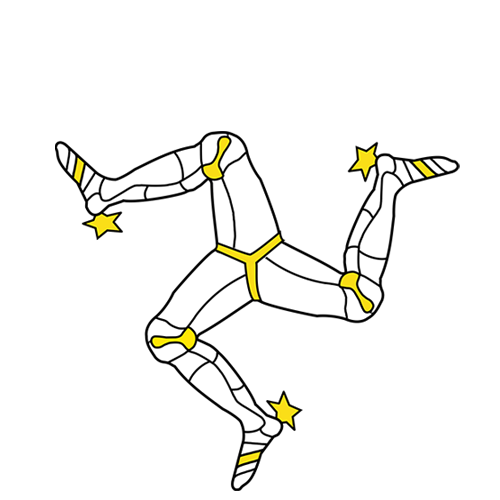
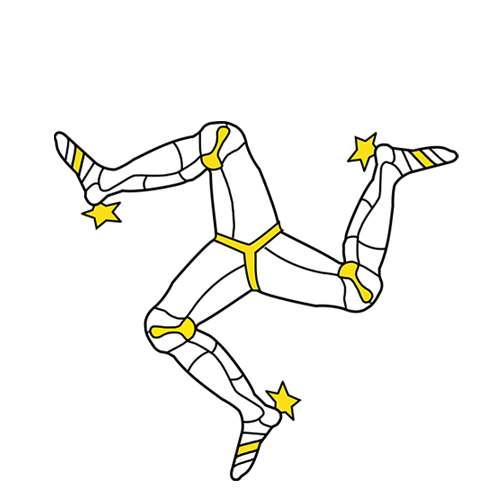
스크롤 애니메이션 수정 및 이미지 추가

Changed region(s): [[0.09, 0.24, 0.93, 0.99]]

diff --git a/230512_scrollani/index.html b/230512_scrollani/index.html
@@ -11,15 +11,27 @@
 <body>
 <div class="wrap">
     <h1 class="main_tit">스크롤 애니메이션 테스트</h1>
-    <div class="img_spin">
-        <img src="./img/manisle.png" alt="">
+    <div class="img">
+        <div class="img_spin on">
+            <img src="./img/manisle.png" alt="">
+        </div>
+        <div class="img_spin2">
+            <img src="./img/sigongjoa.webp" alt="">
+        </div>
     </div>
+    <button class="change">이미지 바꾸기</button>
 </div>
 <script>
     document.addEventListener('scroll', () => {
         document.body.style.setProperty('--scroll', window.pageYOffset / (document.body.offsetHeight - window.innerHeight));
-        console.log(document.body.offsetHeight - window.innerHeight);
     }, false);
+
+    const $change = document.querySelector('button.change');
+    const $img = document.querySelector('.img');
+
+    $change.addEventListener('click', () => {
+        $img.
+    });
 </script>
 </body>
 </html>

diff --git a/230512_scrollani/css/style.css b/230512_scrollani/css/style.css
@@ -2,10 +2,13 @@
 body{height:10000px}
 .wrap{overflow:hidden;max-width:1024px;margin:0 auto}
 .main_tit{margin-top:100px;text-align:center}
-.img_spin{position:fixed;top:calc(50% - 150px);left:calc(50% - 150px);width:300px;height:300px;animation:rotate 3s linear infinite}
+.img_spin{position:fixed;top:calc(50% - 150px);left:calc(50% - 150px);width:300px;height:300px;animation:rotate 1s linear infinite;animation-play-state:paused;animation-delay:calc(var(--scroll) * -3s);animation-iteration-count:3;animation-fill-mode:both}
 .img_spin img{width:100%}
 
 @keyframes rotate {
     0% {transform:rotate(0)}
-    100% {transform:rotate(360deg)}
+    25% {transform:rotate(-90deg)}
+    50% {transform:rotate(-180deg)}
+    75% {transform:rotate(-270deg)}
+    100% {transform:rotate(-360deg)}
 }
